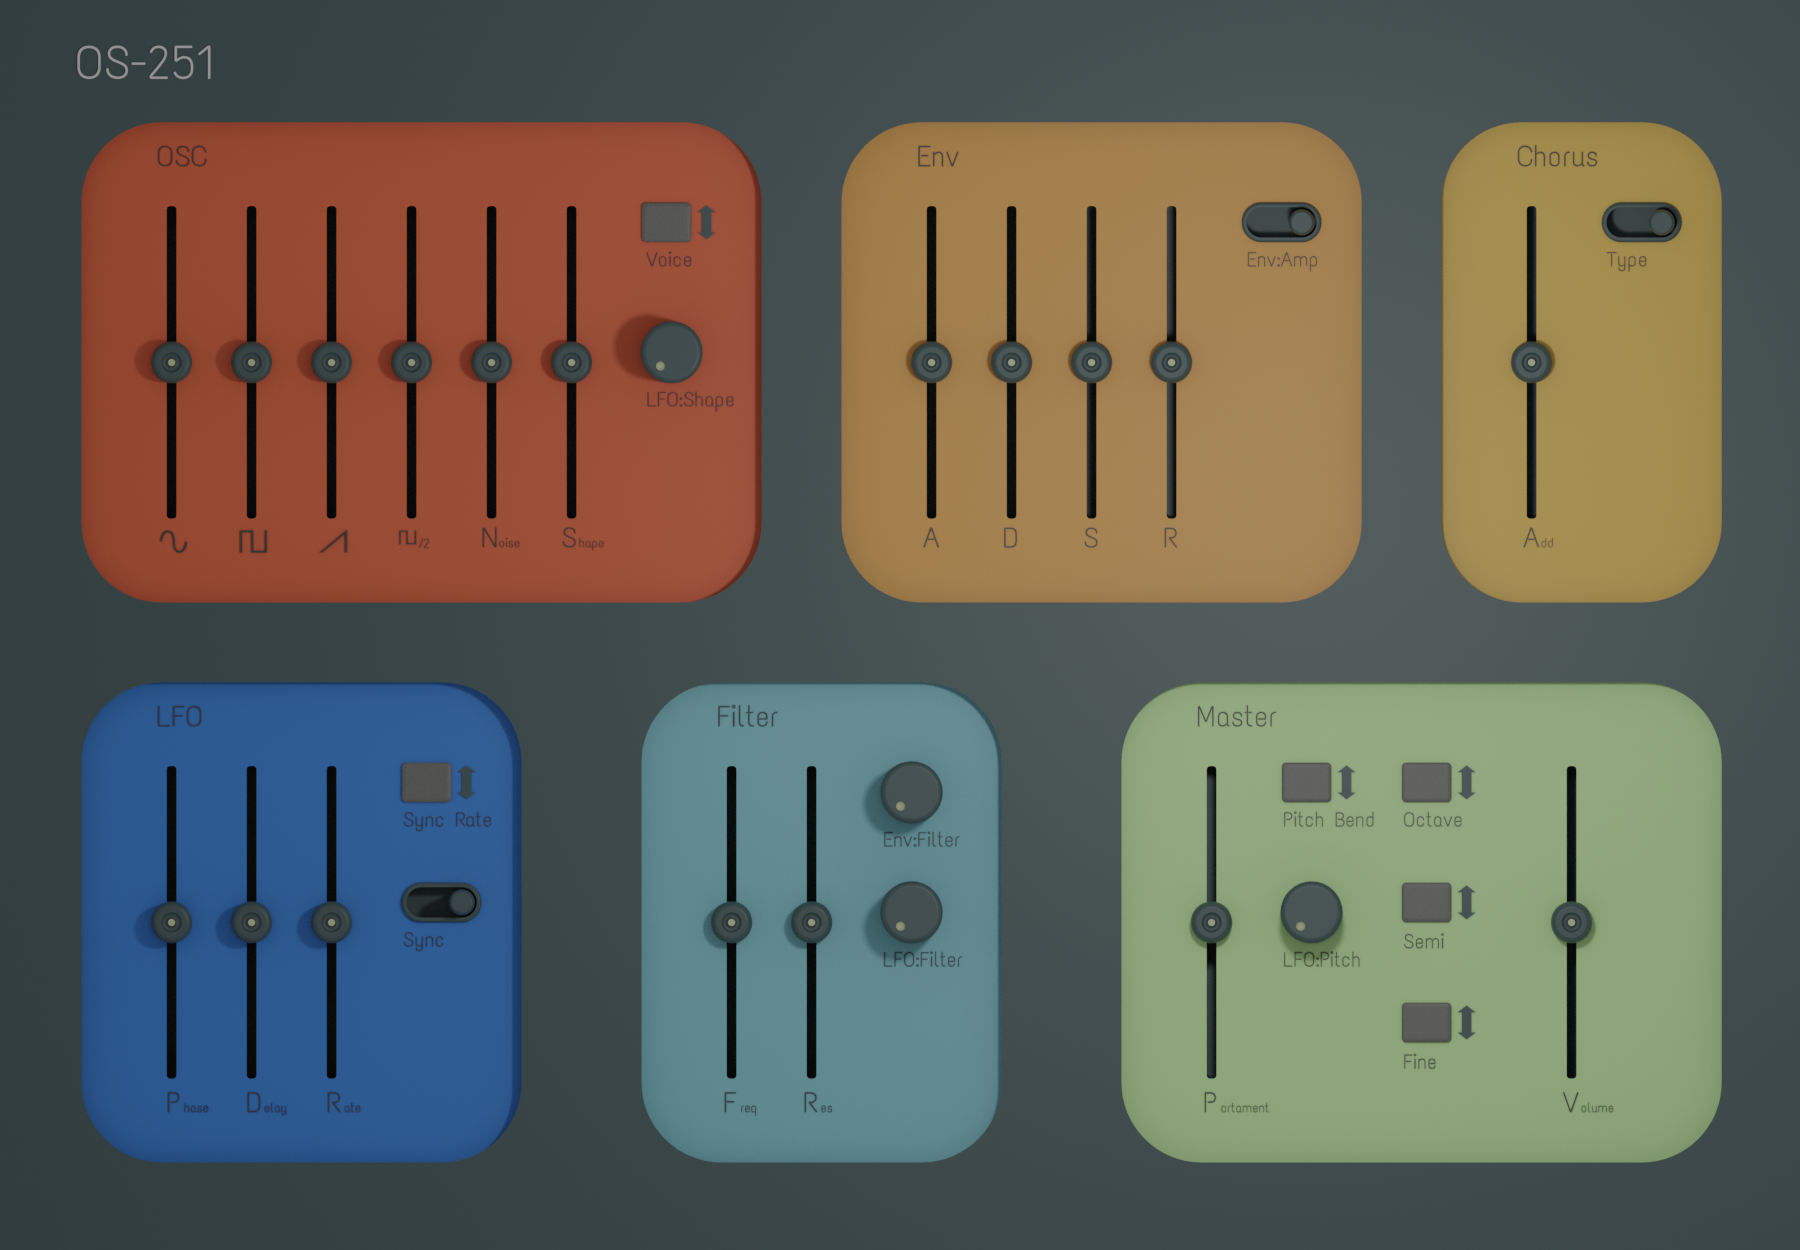
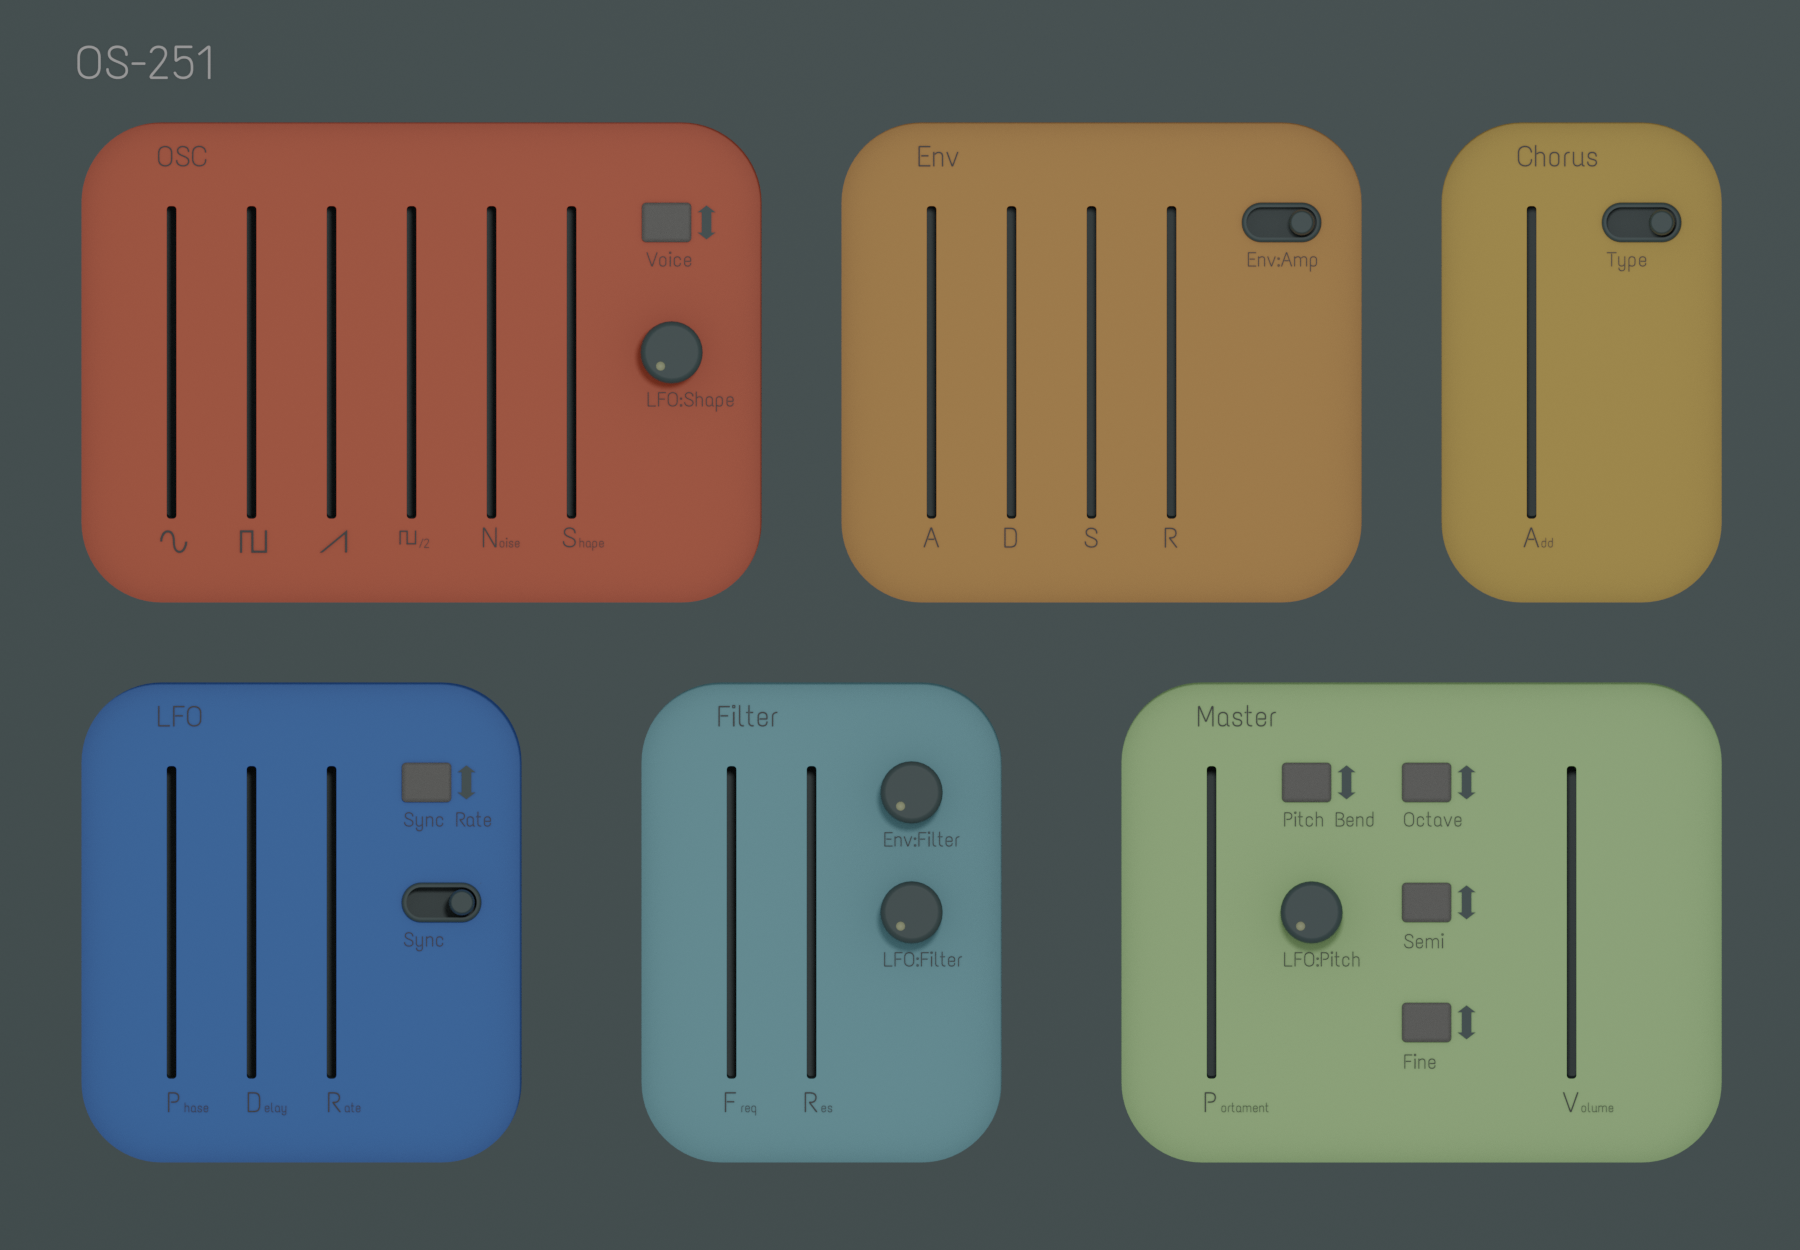
Add one slider

diff --git a/src/views/Body.h b/src/views/Body.h
@@ -1,14 +1,38 @@
+/*
+  ==============================================================================
+
+   Body
+
+  ==============================================================================
+*/
+
+#pragma once
+
 #include "../DspCommon.h"
+#include "look_and_feels/SliderLookAndFeel.h"
 #include <JuceHeader.h>
 
 class BodyView : public reactjuce::View
 {
-    void paint (juce::Graphics& g) override
+public:
+    BodyView (juce::AudioProcessorValueTreeState& params)
     {
-        // Do your own paint routine like usual.
-        // You can also treat this whole class instance like your normal juce::Components. Add children, `addAndMakeVisible`,
-        // `resized` and everything!
-        Image backgroundImage = ImageCache::getFromMemory (BinaryData::background_png, BinaryData::background_pngSize);
-        g.drawImageWithin (backgroundImage, 0, 0, 900, 625, RectanglePlacement::Flags::xLeft, false);
+        sliderSin.setLookAndFeel (&sliderLookAndFeel);
+        sliderSin.setSliderStyle (Slider::LinearVertical);
+        sliderSin.setMouseDragSensitivity (700);
+        sliderSin.hideTextBox (true);
+        addAndMakeVisible (sliderSin);
+        s_freqAttachment.reset (new SliderAttachment (params, "sinGain", sliderSin));
     }
+
+    void paint (juce::Graphics& g) override;
+    void resized() override;
+
+private:
+    //==============================================================================
+    using SliderAttachment = juce::AudioProcessorValueTreeState::SliderAttachment;
+    SliderLookAndFeel sliderLookAndFeel;
+
+    juce::Slider sliderSin;
+    std::unique_ptr<SliderAttachment> s_freqAttachment;
 };

diff --git a/src/views/Body.cpp b/src/views/Body.cpp
@@ -1,0 +1,26 @@
+/*
+  ==============================================================================
+
+   Body
+
+  ==============================================================================
+*/
+
+#include "Body.h"
+
+void BodyView::paint (juce::Graphics& g)
+{
+    // Do your own paint routine like usual.
+    // You can also treat this whole class instance like your normal juce::Components. Add children, `addAndMakeVisible`,
+    // `resized` and everything!
+    juce::Image backgroundImage = juce::ImageCache::getFromMemory (BinaryData::background_png, BinaryData::background_pngSize);
+    g.drawImageWithin (backgroundImage, 0, 0, 900, 625, juce::RectanglePlacement::Flags::xLeft, false);
+}
+
+void BodyView::resized()
+{
+    // This is generally where you'll want to lay out the positions of any
+    // subcomponents in your editor..
+
+    sliderSin.setBounds (75, 80, SliderLookAndFeel::sliderWidth, SliderLookAndFeel::sliderHeight);
+}

diff --git a/src/views/look_and_feels/SliderLookAndFeel.h b/src/views/look_and_feels/SliderLookAndFeel.h
@@ -1,0 +1,22 @@
+#pragma once
+
+#include "../../DspCommon.h"
+#include <JuceHeader.h>
+
+//==============================================================================
+class SliderLookAndFeel : public LookAndFeel_V4
+{
+public:
+    static constexpr int sliderWidth = 60;
+    static constexpr int sliderHeight = 220;
+
+    void drawLinearSlider (Graphics& g, int x, int y, int width, int height, float sliderPos, float minSliderPos, float maxSliderPos, const Slider::SliderStyle, Slider&) override;
+    Slider::SliderLayout getSliderLayout (Slider&) override;
+
+private:
+    static constexpr float thumbWidth = 42.0f;
+    static constexpr float thumbHeight = 42.0f;
+
+    const Rectangle<int> textBoxBounds = Rectangle<int> (30, 0, 70, 14);
+    const Rectangle<int> sliderBounds = Rectangle<int> (11, 32, 40, 145);
+};

diff --git a/src/views/look_and_feels/SliderLookAndFeel.cpp b/src/views/look_and_feels/SliderLookAndFeel.cpp
@@ -1,0 +1,17 @@
+#include "SliderLookAndFeel.h"
+
+//==============================================================================
+void SliderLookAndFeel::drawLinearSlider (Graphics& g, int x, int y, int width, int height, float sliderPos, float minSliderPos, float maxSliderPos, const Slider::SliderStyle, Slider&)
+{
+    Image thumb = ImageCache::getFromMemory (BinaryData::slider_thumb_png, BinaryData::slider_thumb_pngSize);
+    Rectangle<float> knobArea (x - thumbWidth / 2, sliderPos - thumbWidth / 2, thumbWidth, thumbHeight);
+    g.drawImage (thumb, knobArea, RectanglePlacement::Flags::xLeft);
+}
+
+Slider::SliderLayout SliderLookAndFeel::getSliderLayout (Slider&)
+{
+    Slider::SliderLayout layout;
+    layout.sliderBounds = sliderBounds;
+
+    return layout;
+}

diff --git a/src/PluginEditor.cpp b/src/PluginEditor.cpp
@@ -35,8 +35,8 @@ Os251AudioProcessorEditor::Os251AudioProcessorEditor (Os251AudioProcessor& p, ju
     bundle = sourceDir.getChildFile ("jsui/build/js/main.js");
 #endif
     addAndMakeVisible (appRoot);
-    appRoot.registerViewType ("BodyView", []() -> reactjuce::ViewManager::ViewPair {
-        auto view = std::make_unique<BodyView>();
+    appRoot.registerViewType ("BodyView", [this]() -> reactjuce::ViewManager::ViewPair {
+        auto view = std::make_unique<BodyView> (parameters);
         auto shadowView = std::make_unique<reactjuce::ShadowView> (view.get());
 
         return { std::move (view), std::move (shadowView) };
